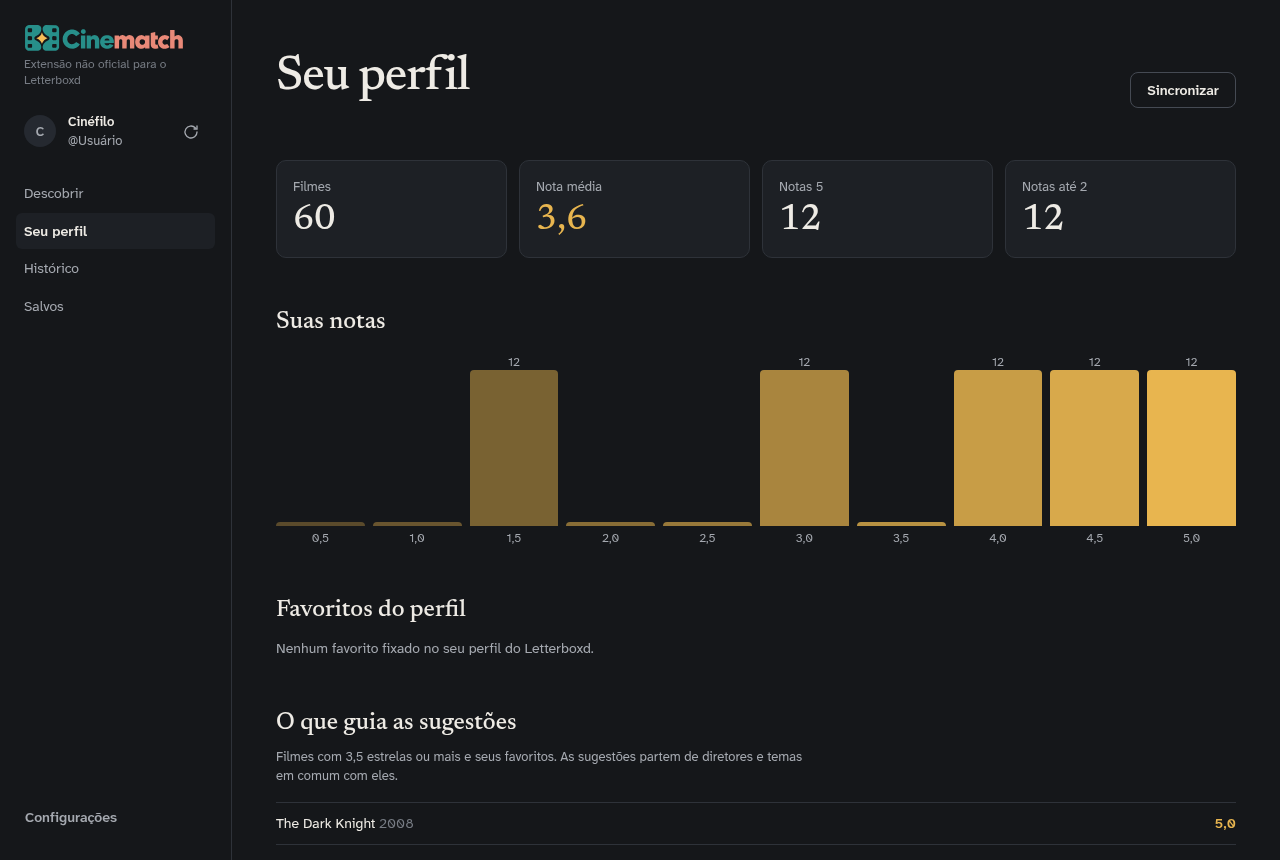
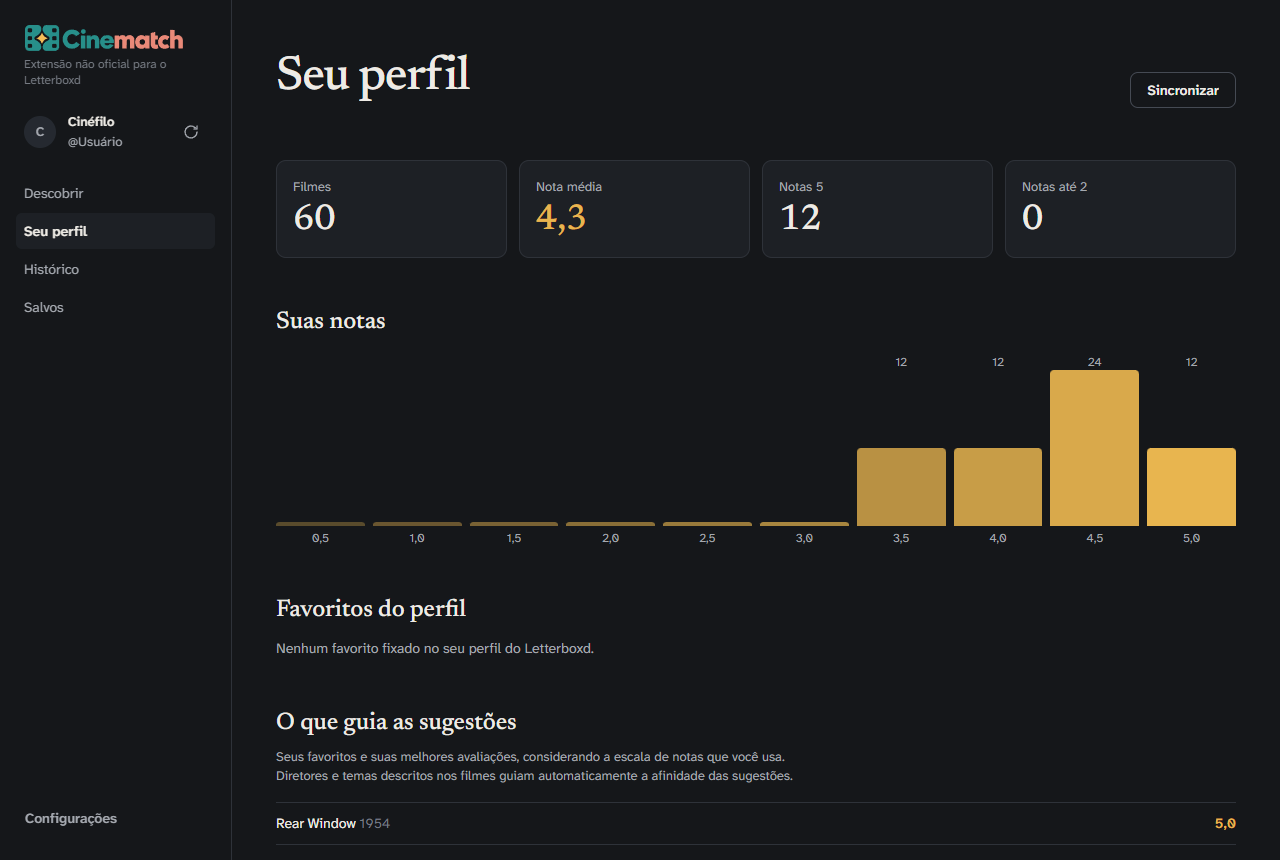
Atualiza as screenshots do README
As imagens de docs/screenshots mostram a interface atual: nova paleta,
filme do dia, grade de um clima, popup, perfil e configurações. O script
tools/diagnostics/screenshots.mjs (npm run screenshots) as regera a partir
de dist/ com um perfil sintético, sem dados pessoais.

diff --git a/README.md b/README.md
@@ -58,6 +58,7 @@ npm run dev        # build em modo de desenvolvimento, com recarga
 npm test           # Vitest (os testes com filmes reais rodam só com o catálogo gerado)
 npm run lint       # Biome (só lint; o formatador está desligado)
 npm run e2e        # carrega dist/ no Chromium e testa as telas (requer o catálogo)
+npm run screenshots # regera as imagens de docs/screenshots com um perfil sintético
 npm run package    # gera cinematch-v<versão>.zip para a Chrome Web Store (requer o catálogo)
 npm run icons      # regera a logo da interface e os ícones a partir de assets/brand
 npm run diagnostics:recommendations # compara gostos com os mesmos assistidos e mede latência
